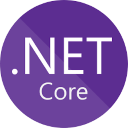
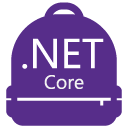
## 0.2.1 - 2018-02-06
* Change a new Icon for better recognizing!

diff --git a/CHANGELOG.md b/CHANGELOG.md
@@ -2,15 +2,19 @@
 
 All notable changes to the **.NET Core Extension Pack** will be documented in this file.
 
+## 0.2.1 - 2018-02-06
+
+* Change a new Icon for better recognizing!
+
 ## 0.2.0 - 2018-02-04
 
-- Add [Path Intellisense](https://marketplace.visualstudio.com/items?itemName=christian-kohler.path-intellisense) extension.
-- Add [Version Lens](https://marketplace.visualstudio.com/items?itemName=pflannery.vscode-versionlens) extension.
+* Add [Path Intellisense](https://marketplace.visualstudio.com/items?itemName=christian-kohler.path-intellisense) extension.
+* Add [Version Lens](https://marketplace.visualstudio.com/items?itemName=pflannery.vscode-versionlens) extension.
 
 ## 0.1.6 - 2018-02-03
 
-- Add [TODO Highlight](https://marketplace.visualstudio.com/items?itemName=wayou.vscode-todo-highlight) extension.
+* Add [TODO Highlight](https://marketplace.visualstudio.com/items?itemName=wayou.vscode-todo-highlight) extension.
 
 ## 0.1.0 - 2018-01-24
 
-- Initial release
+* Initial release
